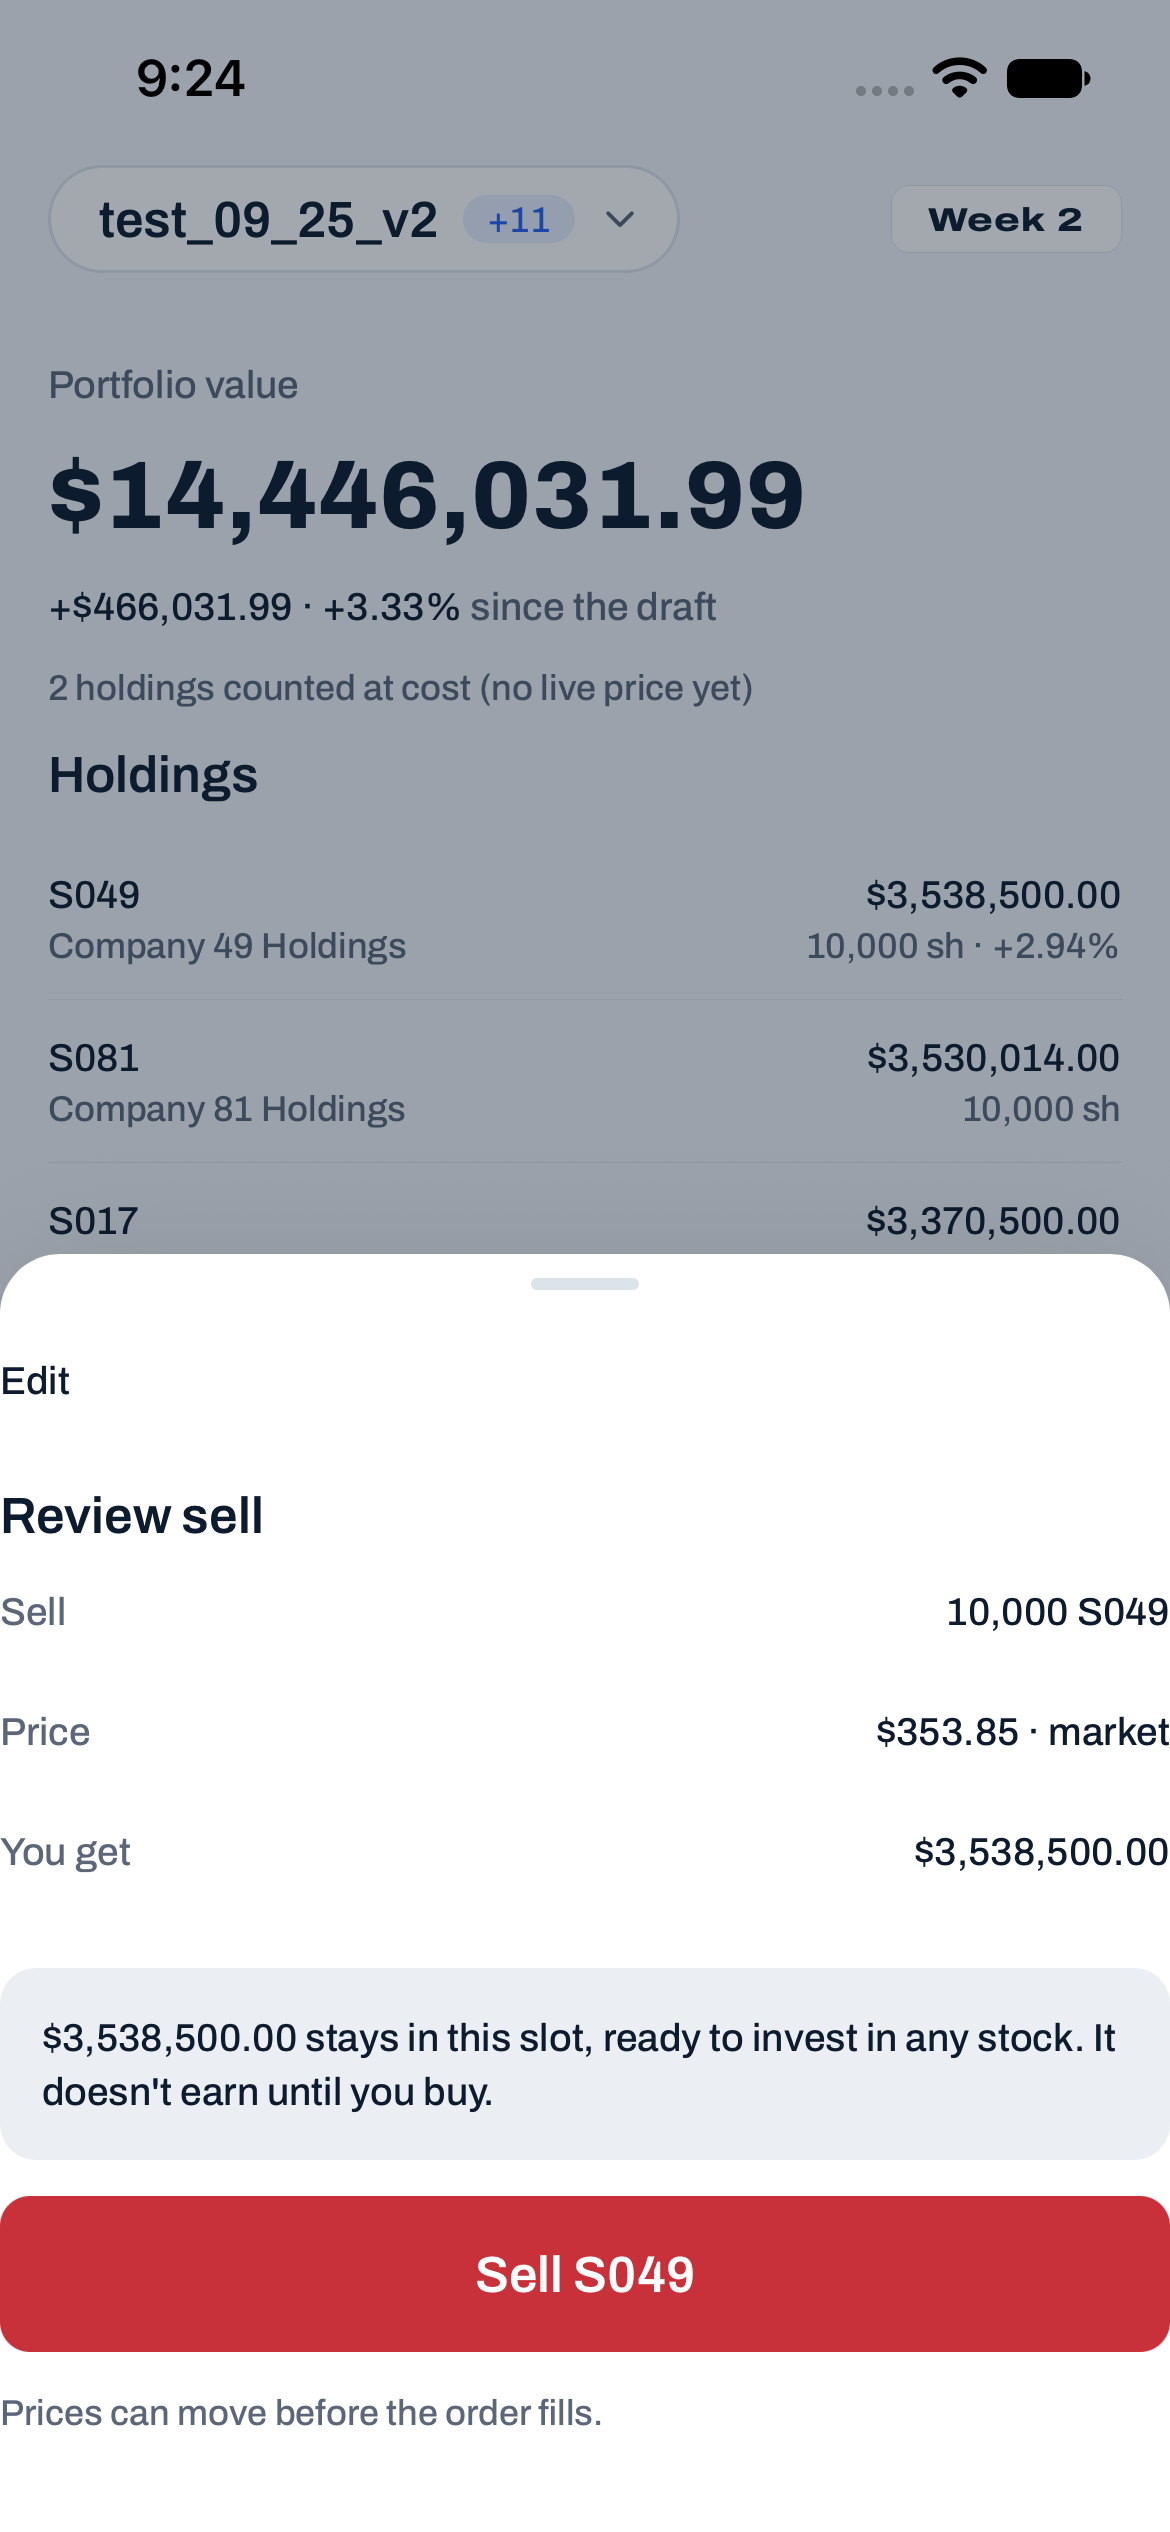
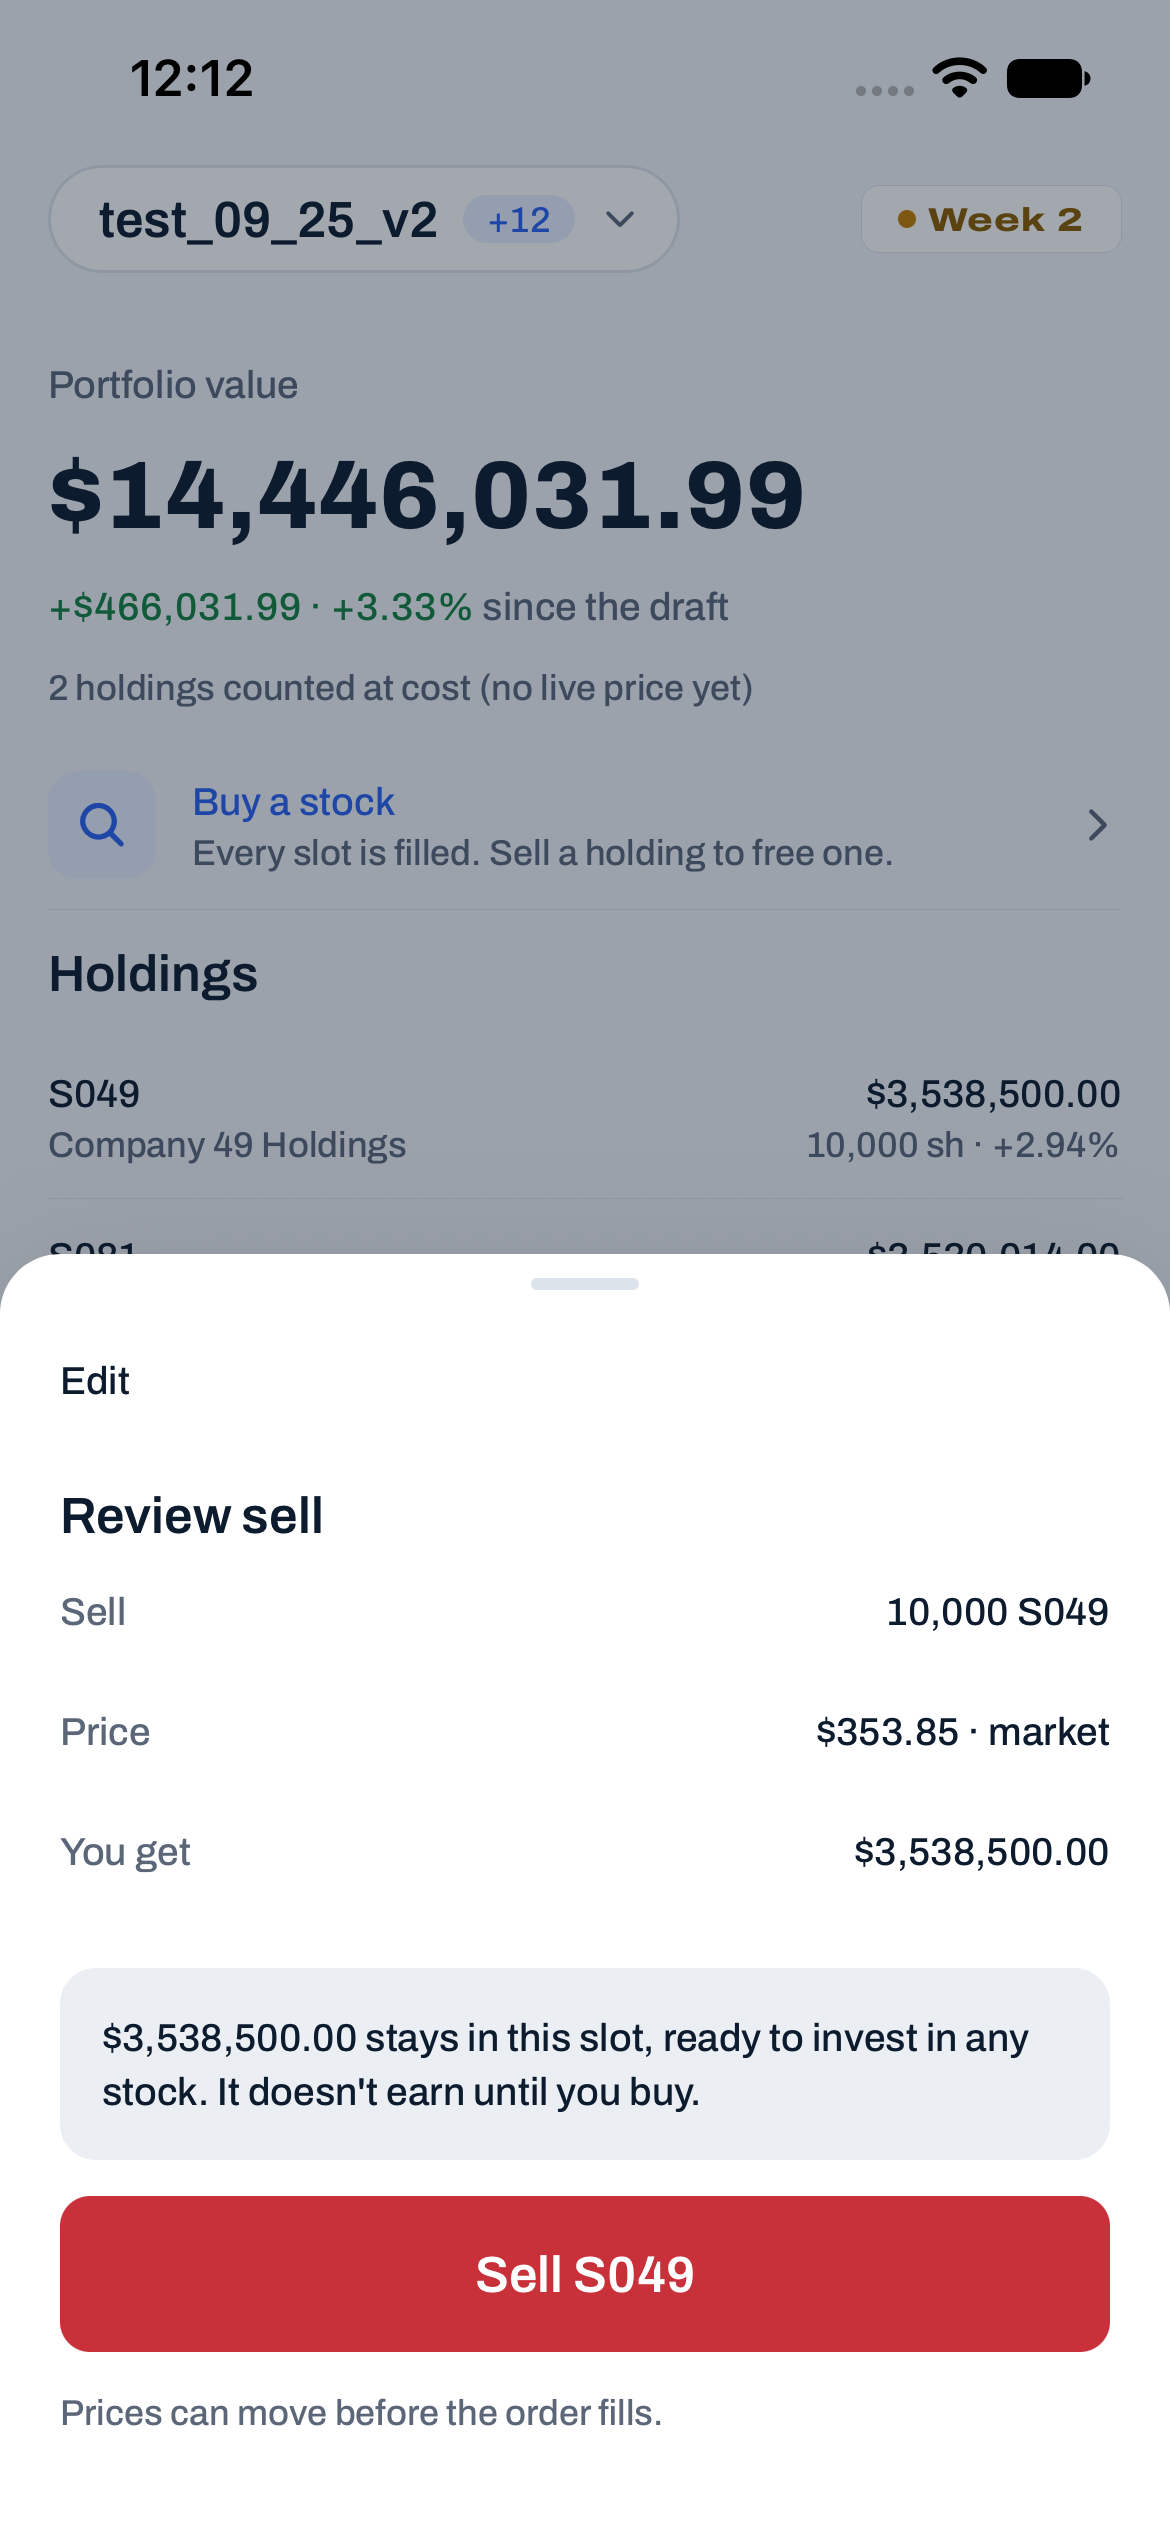
docs(design): C-3 review-sell re-capture, C-8 deferred
Re-captured review-sell-standard-light.png from a real tap on the iPhone
17e (branch tip 2d68f1b9): the "flush to screen edge" report does not
reproduce, the panel is evenly inset on both sides. Documented C-3 and
C-8 (deferred to Giorgio's device walkthrough -- M5 is evidence-only per
the Design Lead) in the captures README.

diff --git a/docs/design/captures/ui-mobile-money/README.md b/docs/design/captures/ui-mobile-money/README.md
@@ -46,6 +46,20 @@ Captured with the `search_fail` / `search_delay` dev fixture scenarios
 |---|---|
 | `portfolio-buyrow-standard-light.png`, `…-standard-dark.png`, `…-xl-light.png` | Re-capture after the row was added (`19e2ba46`): the "Buy a stock" row sits under the slots summary, above Holdings, in Light, Dark and XL text. Predates C-9 (the search-icon tile and accent title, queued) — shown for context, not current. |
 
+## C-3 — review-sell panel re-capture
+
+| File(s) | Proves |
+|---|---|
+| `review-sell-standard-light.png` | Re-capture confirming the review panel's side padding against the board, taken from a real tap (not synthetic) on the iPhone 17e, branch tip `2d68f1b9` — the original "flush to screen edge" report did not reproduce; the panel is evenly inset on both sides. |
+
+## C-8 — M5 holdings-reorder FLIP animation
+
+Deferred to Giorgio's device walkthrough. The code is built; this session's
+synthetic taps could not reliably drive "Sell S049" (an sp `Button` inside a
+Sheet) to complete a sell and trigger the reorder, so no recording exists
+yet. Per the Design Lead, M5 is evidence-only — it does not gate the release
+on its own.
+
 ## C-4 / C-6 / C-9 — the stock sheet's position card, rolling money, board defects
 
 | File(s) | Proves |
